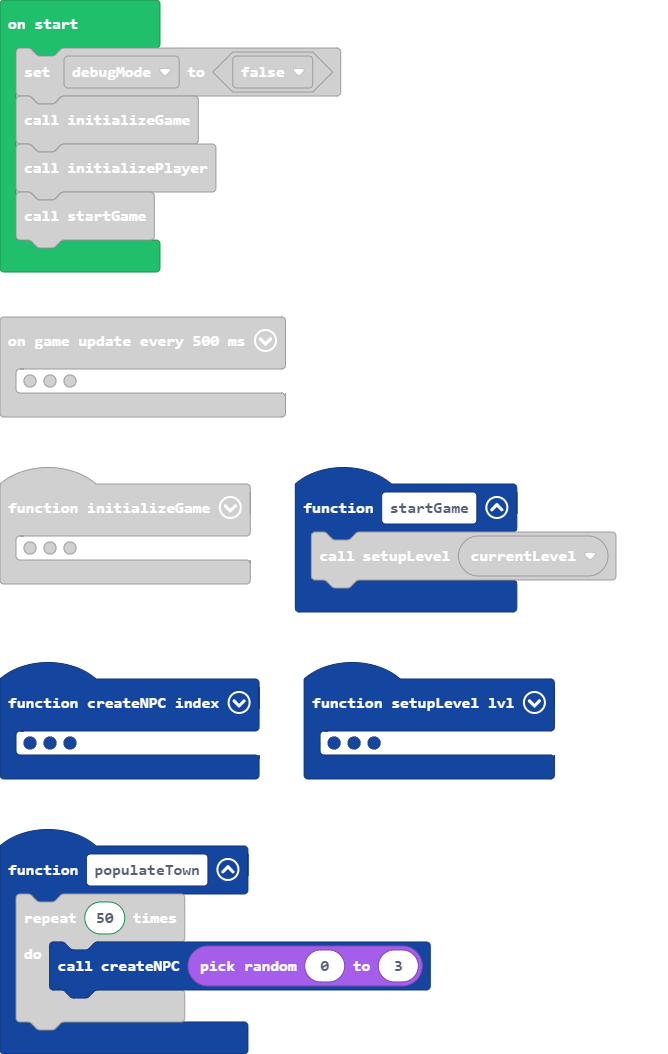
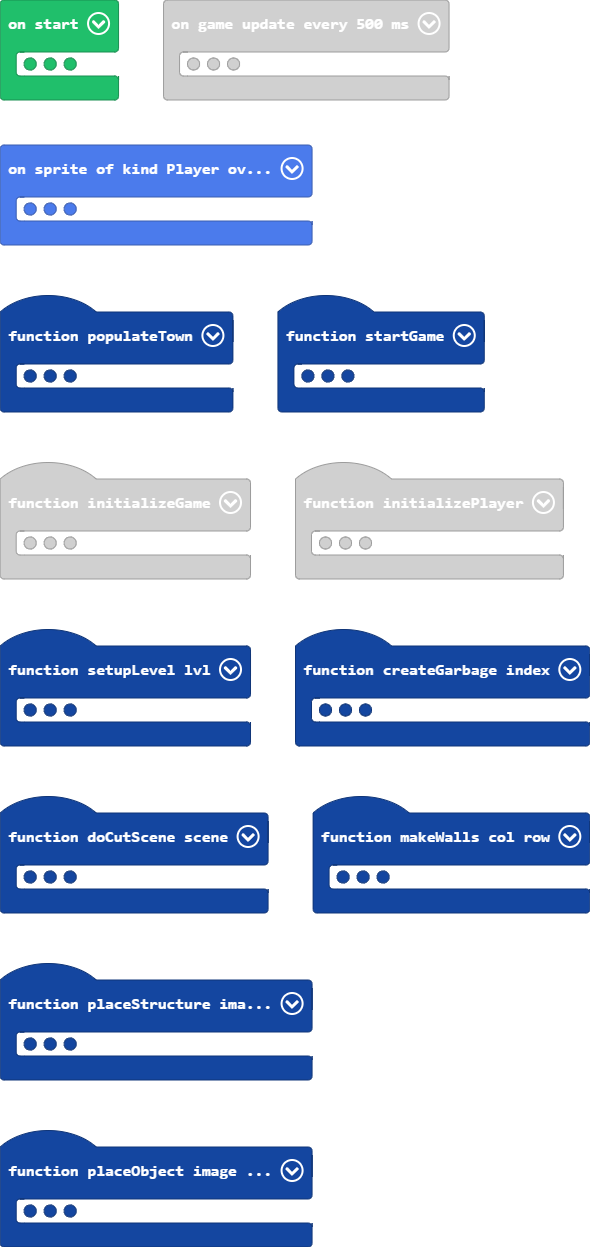
added random fish and score

diff --git a/tilemap.g.ts b/tilemap.g.ts
@@ -14,6 +14,10 @@ namespace myTiles {
     export const tile5 = image.ofBuffer(hex``);
     //% fixedInstance jres blockIdentity=images._tile
     export const tile6 = image.ofBuffer(hex``);
+    //% fixedInstance jres blockIdentity=images._tile
+    export const tile7 = image.ofBuffer(hex``);
+    //% fixedInstance jres blockIdentity=images._tile
+    export const tile8 = image.ofBuffer(hex``);
 
     helpers._registerFactory("tilemap", function(name: string) {
         switch(helpers.stringTrim(name)) {
@@ -131,39 +135,6 @@ namespace myTiles {
 . . . . . . . . . . . . . . . . 
 . . . . . . . . . . . . . . . . 
 `, [myTiles.transparency16], TileScale.Sixteen);
-            case "level6":
[1 lines of base64/hex data omitted]
-..............................
-..............................
-..............................
-..............................
-..............................
-..............................
-..............................
-..............................
-..............................
-..............................
-..............................
-..............................
-..............................
-..............................
-..............................
-..............................
-..............................
-..............................
-..............................
-..............................
-..............................
-..............................
-..............................
-..............................
-..............................
-..............................
-..............................
-..............................
-..............................
-..............................
-`, [myTiles.transparency16,sprites.castle.tilePath6,sprites.castle.tilePath4,sprites.castle.tilePath9,sprites.castle.tilePath8,sprites.castle.tilePath7,sprites.castle.tilePath1,sprites.castle.tilePath2,sprites.castle.tilePath3,sprites.castle.tilePath5,myTiles.tile2,myTiles.tile3,myTiles.tile4,myTiles.tile5,myTiles.tile6,sprites.castle.tileGrass1,sprites.castle.tileGrass2,tiles.util.object1], TileScale.Sixteen);
             case "level7":
             case "level7":return tiles.createTilemap(hex`1000100000000000000000000000000000000000000000000000000000000000000000000000000000000000000000000000000000000000000000000000000000000000000000000000000000000000000000000000000000000000000000000000000000000000000000000000000000000000000000000000000000000000000000000000000000000000000000000000000000000000000000000000000000000000000000000000000000000000000000000000000000000000000000000000000000000000000000000000000000000000000000000000000000000000000000000000000000000000000000000000000000000000000000000000000000000000`, img`
 . . . . . . . . . . . . . . . . 
@@ -278,6 +249,39 @@ namespace myTiles {
 . . . . . . . . . . . . . . . . 
 . . . . . . . . . . . . . . . . 
 `, [myTiles.transparency16], TileScale.Sixteen);
+            case "level6":
[1 lines of base64/hex data omitted]
+..............................
+..............................
+..............................
+..............................
+..............................
+..............................
+..............................
+..............................
+..............................
+..............................
+..............................
+..............................
+..............................
+..............................
+..............................
+..............................
+..............................
+..............................
+..............................
+..............................
+..............................
+..............................
+..............................
+..............................
+..............................
+..............................
+..............................
+..............................
+..............................
+..............................
+`, [myTiles.transparency16,sprites.castle.tilePath6,sprites.castle.tilePath4,sprites.castle.tilePath9,sprites.castle.tilePath8,sprites.castle.tilePath7,sprites.castle.tilePath1,sprites.castle.tilePath2,sprites.castle.tilePath3,sprites.castle.tilePath5,myTiles.tile2,myTiles.tile3,myTiles.tile4,myTiles.tile5,myTiles.tile6,sprites.castle.tileGrass1,sprites.castle.tileGrass2,tiles.util.object1,myTiles.tile7,myTiles.tile8], TileScale.Sixteen);
         }
         return null;
     })
@@ -297,6 +301,10 @@ namespace myTiles {
             case "tile5":return tile5;
             case "tPathTL2":
             case "tile6":return tile6;
+            case "tHouse0":
+            case "tile7":return tile7;
+            case "tHouse1":
+            case "tile8":return tile8;
         }
         return null;
     })

diff --git a/main.ts b/main.ts
@@ -1,5 +1,6 @@
 namespace SpriteKind {
     export const NPC = SpriteKind.create()
+    export const Object = SpriteKind.create()
 }
 // Scene 1: Cut scene with glacier
 // 
@@ -17,11 +18,15 @@ function setupLevel (lvl: number) {
     timer.background(function () {
         while (currentLevel == 1) {
             console.log("in loop")
-            for (let value of sprites.allOfKind(SpriteKind.NPC)) {
-                if (sprites.readDataString(value, "state") == "idle") {
+            for (let location of sprites.allOfKind(SpriteKind.NPC)) {
+                if (sprites.readDataString(location, "state") == "idle") {
                     if (Math.percentChance(50)) {
-                        sprites.setDataString(value, "state", "walking")
-                        scene.followPath(value, scene.aStar(tiles.locationOfSprite(value), tiles.getTilesByType(assets.tile`tGreen`)._pickRandom()), 50)
+                        sprites.setDataString(location, "state", "walking")
+                        scene.followPath(location, scene.aStar(tiles.locationOfSprite(location), tiles.getTilesByType(assets.tile`tGreen`)._pickRandom()), 30)
+                    }
+                } else {
+                    if (characterAnimations.matchesRule(location, characterAnimations.rule(Predicate.NotMoving))) {
+                        sprites.setDataString(location, "state", "idle")
                     }
                 }
                 pause(20)
@@ -42,6 +47,11 @@ function playSound (sound: string) {
         music.playTone(466, music.beat(BeatFraction.Eighth))
         music.playTone(622, music.beat(BeatFraction.Half))
     }
+}
+function placeObject (image2: Image, col: number, row: number) {
+    mySprite = sprites.create(image2, SpriteKind.Object)
+    mySprite.setFlag(SpriteFlag.Ghost, true)
+    tiles.placeOnTile(mySprite, tiles.getTileLocation(col, row))
 }
 function playMusic (song: string) {
     if (song == "poleydies") {
@@ -171,6 +181,12 @@ function initializePlayer () {
     500,
     characterAnimations.rule(Predicate.NotMoving)
     )
+    hero.z = 10
+}
+function createGarbage (index: number) {
+    mySprite = sprites.create(garbageSprites[index], SpriteKind.Food)
+    sprites.setDataString(mySprite, "type", "garbage")
+    tiles.placeOnRandomTile(mySprite, assets.tile`tGreen`)
 }
 function startGame () {
     setupLevel(currentLevel)
@@ -201,6 +217,11 @@ function initializeGame () {
     assets.animation`animT3R`,
     assets.animation`animT4R`
     ]
+    garbageSprites = [assets.image`sprDeadFish`]
+}
+function placeStructure (image2: Image, col: number, row: number) {
+    placeObject(image2, col, row)
+    tiles.setWallAt(tiles.getTileLocation(col, row), true)
 }
 function doCutScene (scene2: number) {
     story.startCutscene(function () {
@@ -218,15 +239,46 @@ function saveGame () {
 	
 }
 function populateTown () {
-    for (let index = 0; index < 50; index++) {
+    for (let index = 0; index < 10; index++) {
         createNPC(randint(0, 3))
     }
+    for (let index = 0; index < 20; index++) {
+        createGarbage(0)
+    }
+    for (let location of tiles.getTilesByType(assets.tile`tHouse0`)) {
+        placeStructure(assets.image`sprRedHouseS`, tiles.locationXY(location, tiles.XY.column), tiles.locationXY(location, tiles.XY.row))
+        makeWalls(tiles.locationXY(location, tiles.XY.column), tiles.locationXY(location, tiles.XY.row))
+        mySprite.setFlag(SpriteFlag.GhostThroughSprites, true)
+    }
+    for (let location of tiles.getTilesByType(assets.tile`tHouse1`)) {
+        placeStructure(assets.image`sprBrownHouseS`, tiles.locationXY(location, tiles.XY.column), tiles.locationXY(location, tiles.XY.row))
+        makeWalls(tiles.locationXY(location, tiles.XY.column), tiles.locationXY(location, tiles.XY.row))
+        mySprite.setFlag(SpriteFlag.GhostThroughSprites, true)
+    }
 }
+function makeWalls (col: number, row: number) {
+    tiles.setWallAt(tiles.getTileLocation(col - 1, row - 1), true)
+    tiles.setWallAt(tiles.getTileLocation(col, row - 1), true)
+    tiles.setWallAt(tiles.getTileLocation(col + 1, row - 1), true)
+    tiles.setWallAt(tiles.getTileLocation(col - 1, row), true)
+    tiles.setWallAt(tiles.getTileLocation(col, row), true)
+    tiles.setWallAt(tiles.getTileLocation(col + 1, row), true)
+    tiles.setWallAt(tiles.getTileLocation(col - 1, row + 1), true)
+    tiles.setWallAt(tiles.getTileLocation(col, row + 1), true)
+    tiles.setWallAt(tiles.getTileLocation(col + 1, row + 1), true)
+}
+sprites.onOverlap(SpriteKind.Player, SpriteKind.Food, function (sprite, otherSprite) {
+    otherSprite.destroy(effects.hearts, 500)
+    playSound("garbage")
+    info.changeScoreBy(1)
+})
+let garbageSprites: Image[] = []
 let townieRightAnim: Image[][] = []
 let townieLeftAnim: Image[][] = []
 let townieUpAnim: Image[][] = []
 let townieDownAnim: Image[][] = []
 let myNPC: Sprite = null
+let mySprite: Sprite = null
 let currentLevel = 0
 let hero: Sprite = null
 let debugMode = false
@@ -234,22 +286,24 @@ initializeGame()
 initializePlayer()
 startGame()
 game.onUpdateInterval(500, function () {
-    for (let value of sprites.allOfKind(SpriteKind.NPC)) {
-        if (sight.isInSight(
-        value,
-        hero,
-        50,
-        false
-        )) {
-            value.sayText("i see you")
-            timer.after(500, function () {
-                hero.sayText("doh")
-            })
-        } else if (false) {
-        	
-        } else {
-            value.sayText("Nothing")
-            hero.sayText("")
+    if (currentLevel == 1) {
+        for (let location of sprites.allOfKind(SpriteKind.NPC)) {
+            if (sight.isInSight(
+            location,
+            hero,
+            50,
+            false
+            )) {
+                location.sayText("bear!")
+                timer.after(500, function () {
+                    hero.sayText("doh")
+                })
+            } else if (false) {
+            	
+            } else {
+                location.sayText("")
+                hero.sayText("")
+            }
         }
     }
 })

diff --git a/images.g.ts b/images.g.ts
@@ -198,22 +198,6 @@ ffffffffffffffffffffffffffddddd...
 ..................................
 ..................................
 `;
-            case "image11":
-            case "sprDeadFish":return img`
-. . . . . . . . . . . . . . . . 
-. . . . . . . . . . . . . . . . 
-. . . . . . . . . . . . . . . . 
-d . . . . d . d . . . d d d . . 
-. d d d d . d . d . d d . d d . 
-. d d d d . d . d . d d d d d . 
-. d d d d d d d d d d d d d . . 
-. d d d d . d . d . d d d d d . 
-d . . . . . d . d . . d d d . . 
-. . . . . d . d . . . . . . . . 
-. . . . . . . . . . . . . . . . 
-. . . . . . . . . . . . . . . . 
-. . . . . . . . . . . . . . . . 
-`;
             case "image2":
             case "myImage":return img`
 . . . . . . . . . . . . . . . . 
@@ -270,6 +254,25 @@ d . . . . . d . d . . d d d . .
 . . . 1 1 1 1 1 1 1 . . . . . . 
 . . . 1 3 . . . 1 3 . . . . . . 
 . . . 1 1 1 . . 1 1 1 . . . . . 
+`;
+            case "image15":
+            case "sprTristiniB":return img`
+. . . . . . . f f f f . . . . . 
+. . . . f f f f f f f f . . . . 
+. . . f f f f f f f f f . . . . 
+. . . f f f f f f f f f f . . . 
+. . f f f f f f f f f f f f . . 
+. . f f f f f f f f f f f f . . 
+. . f f f f f f f f f f f f . . 
+. . f f f f f f f f f f f f . . 
+. . . f f f f f f f f f f . . . 
+. . . . f f f f f f f f . . . . 
+. . . . . f f f f f f . . . . . 
+. . . . . 6 c 6 6 c 6 . . . . . 
+. . . . . 4 6 6 6 6 4 . . . . . 
+. . . . . d 8 8 8 8 d . . . . . 
+. . . . . . 8 8 8 8 . . . . . . 
+. . . . . . a . . a . . . . . . 
 `;
             case "image13":
             case "sprRedHouseS":return img`
@@ -373,24 +376,21 @@ cc66666666664c66e4e44e44e44feeee66c46666666666cc
 .....64eee444c66f4e44e44e44e44ee66c444eee46.....
 ......6ccc666c66e4e44e44e44e44ee66c666ccc6......
 `;
-            case "image15":
-            case "sprTristiniB":return img`
-. . . . . . . f f f f . . . . . 
-. . . . f f f f f f f f . . . . 
-. . . f f f f f f f f f . . . . 
-. . . f f f f f f f f f f . . . 
-. . f f f f f f f f f f f f . . 
-. . f f f f f f f f f f f f . . 
-. . f f f f f f f f f f f f . . 
-. . f f f f f f f f f f f f . . 
-. . . f f f f f f f f f f . . . 
-. . . . f f f f f f f f . . . . 
-. . . . . f f f f f f . . . . . 
-. . . . . 6 c 6 6 c 6 . . . . . 
-. . . . . 4 6 6 6 6 4 . . . . . 
-. . . . . d 8 8 8 8 d . . . . . 
-. . . . . . 8 8 8 8 . . . . . . 
-. . . . . . a . . a . . . . . . 
+            case "image11":
+            case "sprDeadFish":return img`
+. . . . . . . . . . . . . . . . 
+. . . . . . . . . . . . . . . . 
+. . . . . . . . . . . . . . . . 
+d . . . . d . d . . . d d d . . 
+. d d d d . d . d . d d . d d . 
+. d d d d . d . d . d d d d d . 
+. d d d d d d d d d d d d d . . 
+. d d d d . d . d . d d d d d . 
+d . . . . . d . d . . d d d . . 
+. . . . . d . d . . . . . . . . 
+. . . . . . . . . . . . . . . . 
+. . . . . . . . . . . . . . . . 
+. . . . . . . . . . . . . . . . 
 `;
         }
         return null;
